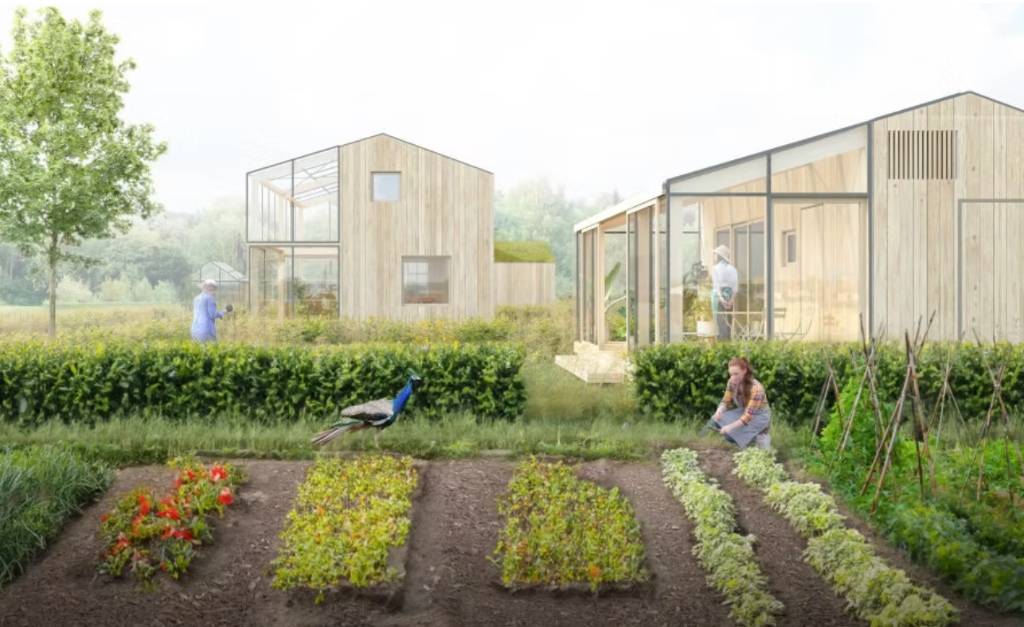
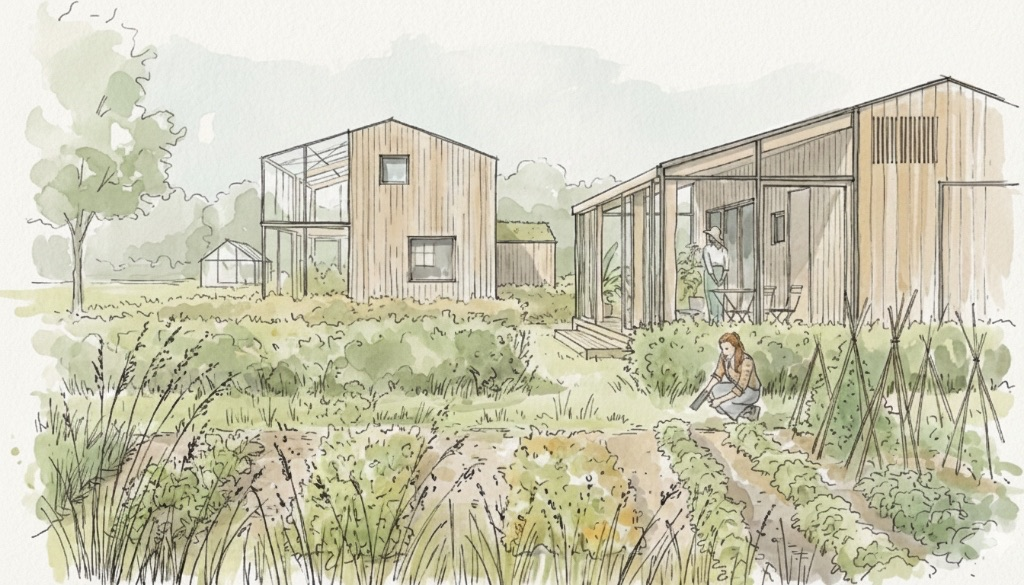
Update story section images with new watercolors

diff --git a/index.html b/index.html
@@ -147,18 +147,21 @@
             <span class="section-label">Wat levert dit uw landgoed op?</span>
             <div class="stories-grid">
                 <div class="story-card">
-                    <img src="assets/erfpacht.jpg" alt="Erfpacht" class="story-img">
+                    <img src="assets/erfpacht.jpg" alt="Aquarel van moderne woningen in een groene omgeving"
+                        class="story-img">
                     <h4>Een structurele inkomstenbron via erfpacht, zonder verkoop van gronden.</h4>
                     <a href="beweegredenen.html" class="btn-pill">Lees meer</a>
                 </div>
                 <div class="story-card">
-                    <img src="assets/natuurinclusief_wonen.jpg" alt="Natuurinclusief wonen" class="story-img">
+                    <img src="assets/natuurinclusief_wonen.jpg" alt="Aquarel van een kaswoning omgeven door natuur"
+                        class="story-img">
                     <h4>Verbetering van de landschappelijke kwaliteit, door natuurinclusief bouwen, een voedselbos en
                         landschappelijke inpassing</h4>
                     <a href="beweegredenen.html" class="btn-pill">Lees meer</a>
                 </div>
                 <div class="story-card">
-                    <img src="assets/samen_werken.jpg" alt="Samen werken" class="story-img">
+                    <img src="assets/samen_werken.jpg" alt="Aquarel van mensen die samen in de moestuin werken"
+                        class="story-img">
                     <h4>Meer verbinding met de omgeving, door functies zoals educatie, zorg, natuurbeleving en
                         maatschappelijke betrokkenheid.</h4>
                     <a href="beweegredenen.html" class="btn-pill">Lees meer</a>
